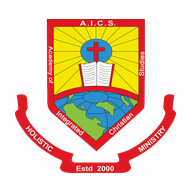
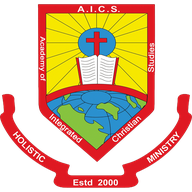
Add files via upload

diff --git a/sw.js b/sw.js
@@ -1,10 +1,11 @@
-const CACHE_NAME = 'aics-dining-pwa-shell-v1';
+const CACHE_NAME = 'aics-dining-pwa-shell-transparent-v2';
 const SHELL_FILES = [
   './',
   './index.html',
   './manifest.webmanifest',
   './aics-icon-192.png',
-  './aics-icon-512.png'
+  './aics-icon-512.png',
+  './aics-logo-transparent-1024.png'
 ];
 
 self.addEventListener('install', event => {
@@ -13,7 +14,7 @@ self.addEventListener('install', event => {
 
 self.addEventListener('activate', event => {
   event.waitUntil(
-    caches.keys().then(keys => Promise.all(keys.filter(key => key !== CACHE_NAME).map(key => caches.delete(key))))
+    caches.keys().then(keys => Promise.all(keys.filter(key => key.startsWith('aics-dining-pwa-shell-') && key !== CACHE_NAME).map(key => caches.delete(key))))
       .then(() => self.clients.claim())
   );
 });

diff --git a/index.html b/index.html
@@ -10,7 +10,7 @@
   <meta name="apple-mobile-web-app-title" content="AICS Dining">
   <link rel="manifest" href="./manifest.webmanifest">
   <link rel="icon" type="image/png" sizes="192x192" href="./aics-icon-192.png">
-  <link rel="apple-touch-icon" href="./aics-icon-512.png">
+  <link rel="apple-touch-icon" sizes="512x512" href="./aics-icon-512.png">
   <title>AICS Dining Report</title>
   <style>
     :root {
@@ -127,7 +127,7 @@
           </svg>
         </div>
         <div class="custom-loader" aria-hidden="true"></div>
-        <p class="status">Loading the reporting system...</p>
+        <p class="status">Loading the secure reporting system...</p>
         <p class="substatus" id="substatus">PLEASE WAIT A MOMENT</p>
         <button id="retry" class="retry" type="button">Reconnect</button>
       </div>
